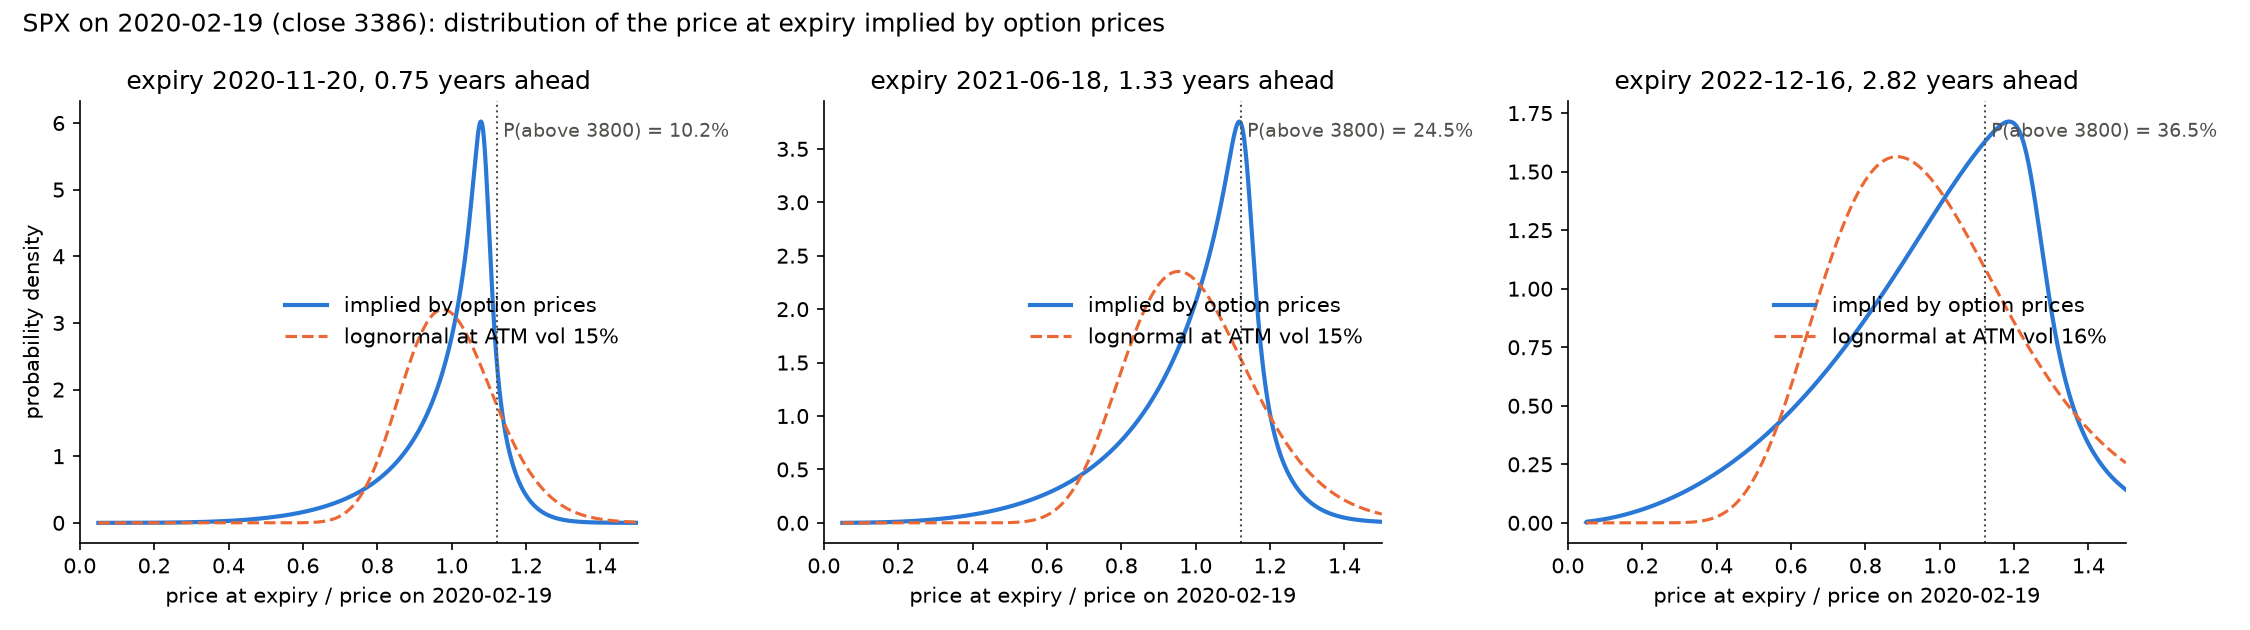
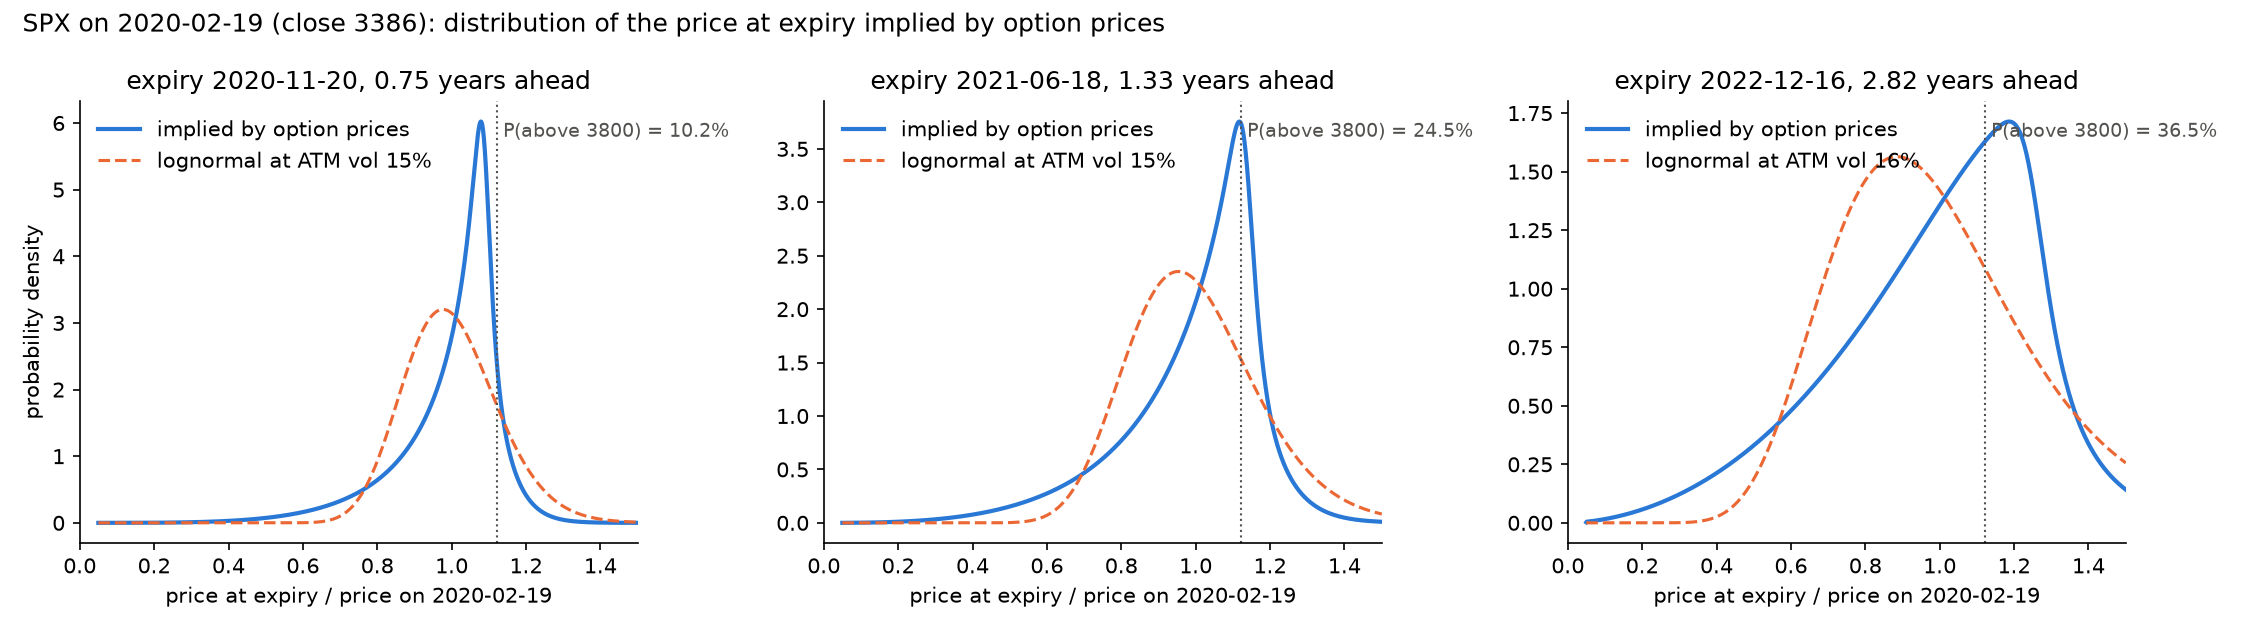
Legend placement

diff --git a/implied_distribution.py b/implied_distribution.py
@@ -164,7 +164,7 @@ def main(ticker, date, target):
         ax.set(xlim=(0, max(1.5, 1.1 * target / spot)), xlabel=f"price at expiry / price on {date}",
                title=f"expiry {g.exdate.iloc[0].date()}, {T:.2f} years ahead")
         ax.spines[["top", "right"]].set_visible(False)
-        ax.legend(frameon=False, loc="center right")
+        ax.legend(frameon=False, loc="upper left")
     axes[0].set_ylabel("probability density")
     fig.suptitle(f"{ticker} on {date} (close {spot:.0f}): distribution of the price at expiry implied by option prices", x=0.01, ha="left")
     fig.tight_layout()
